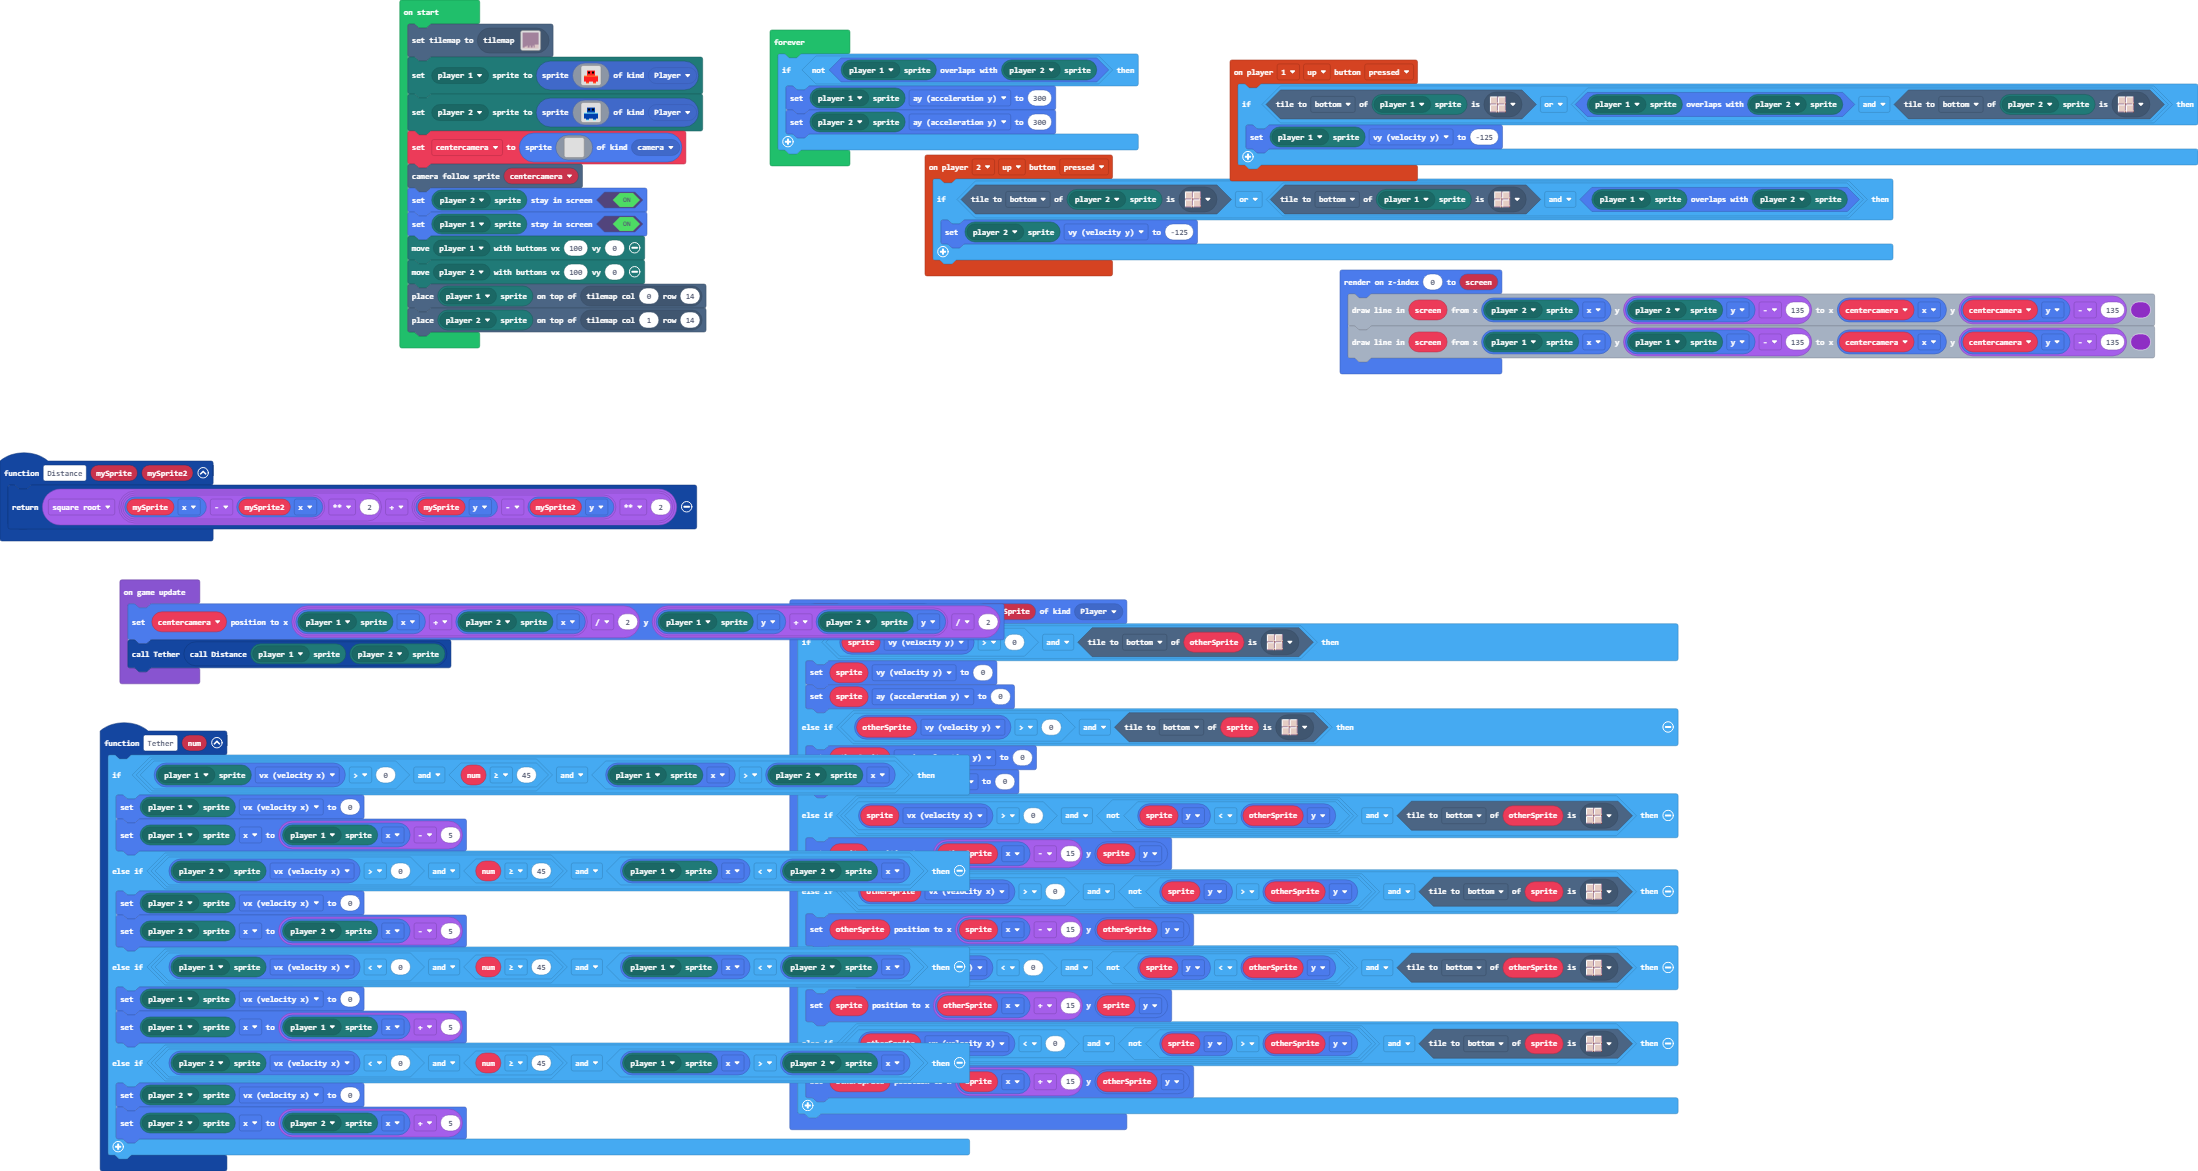
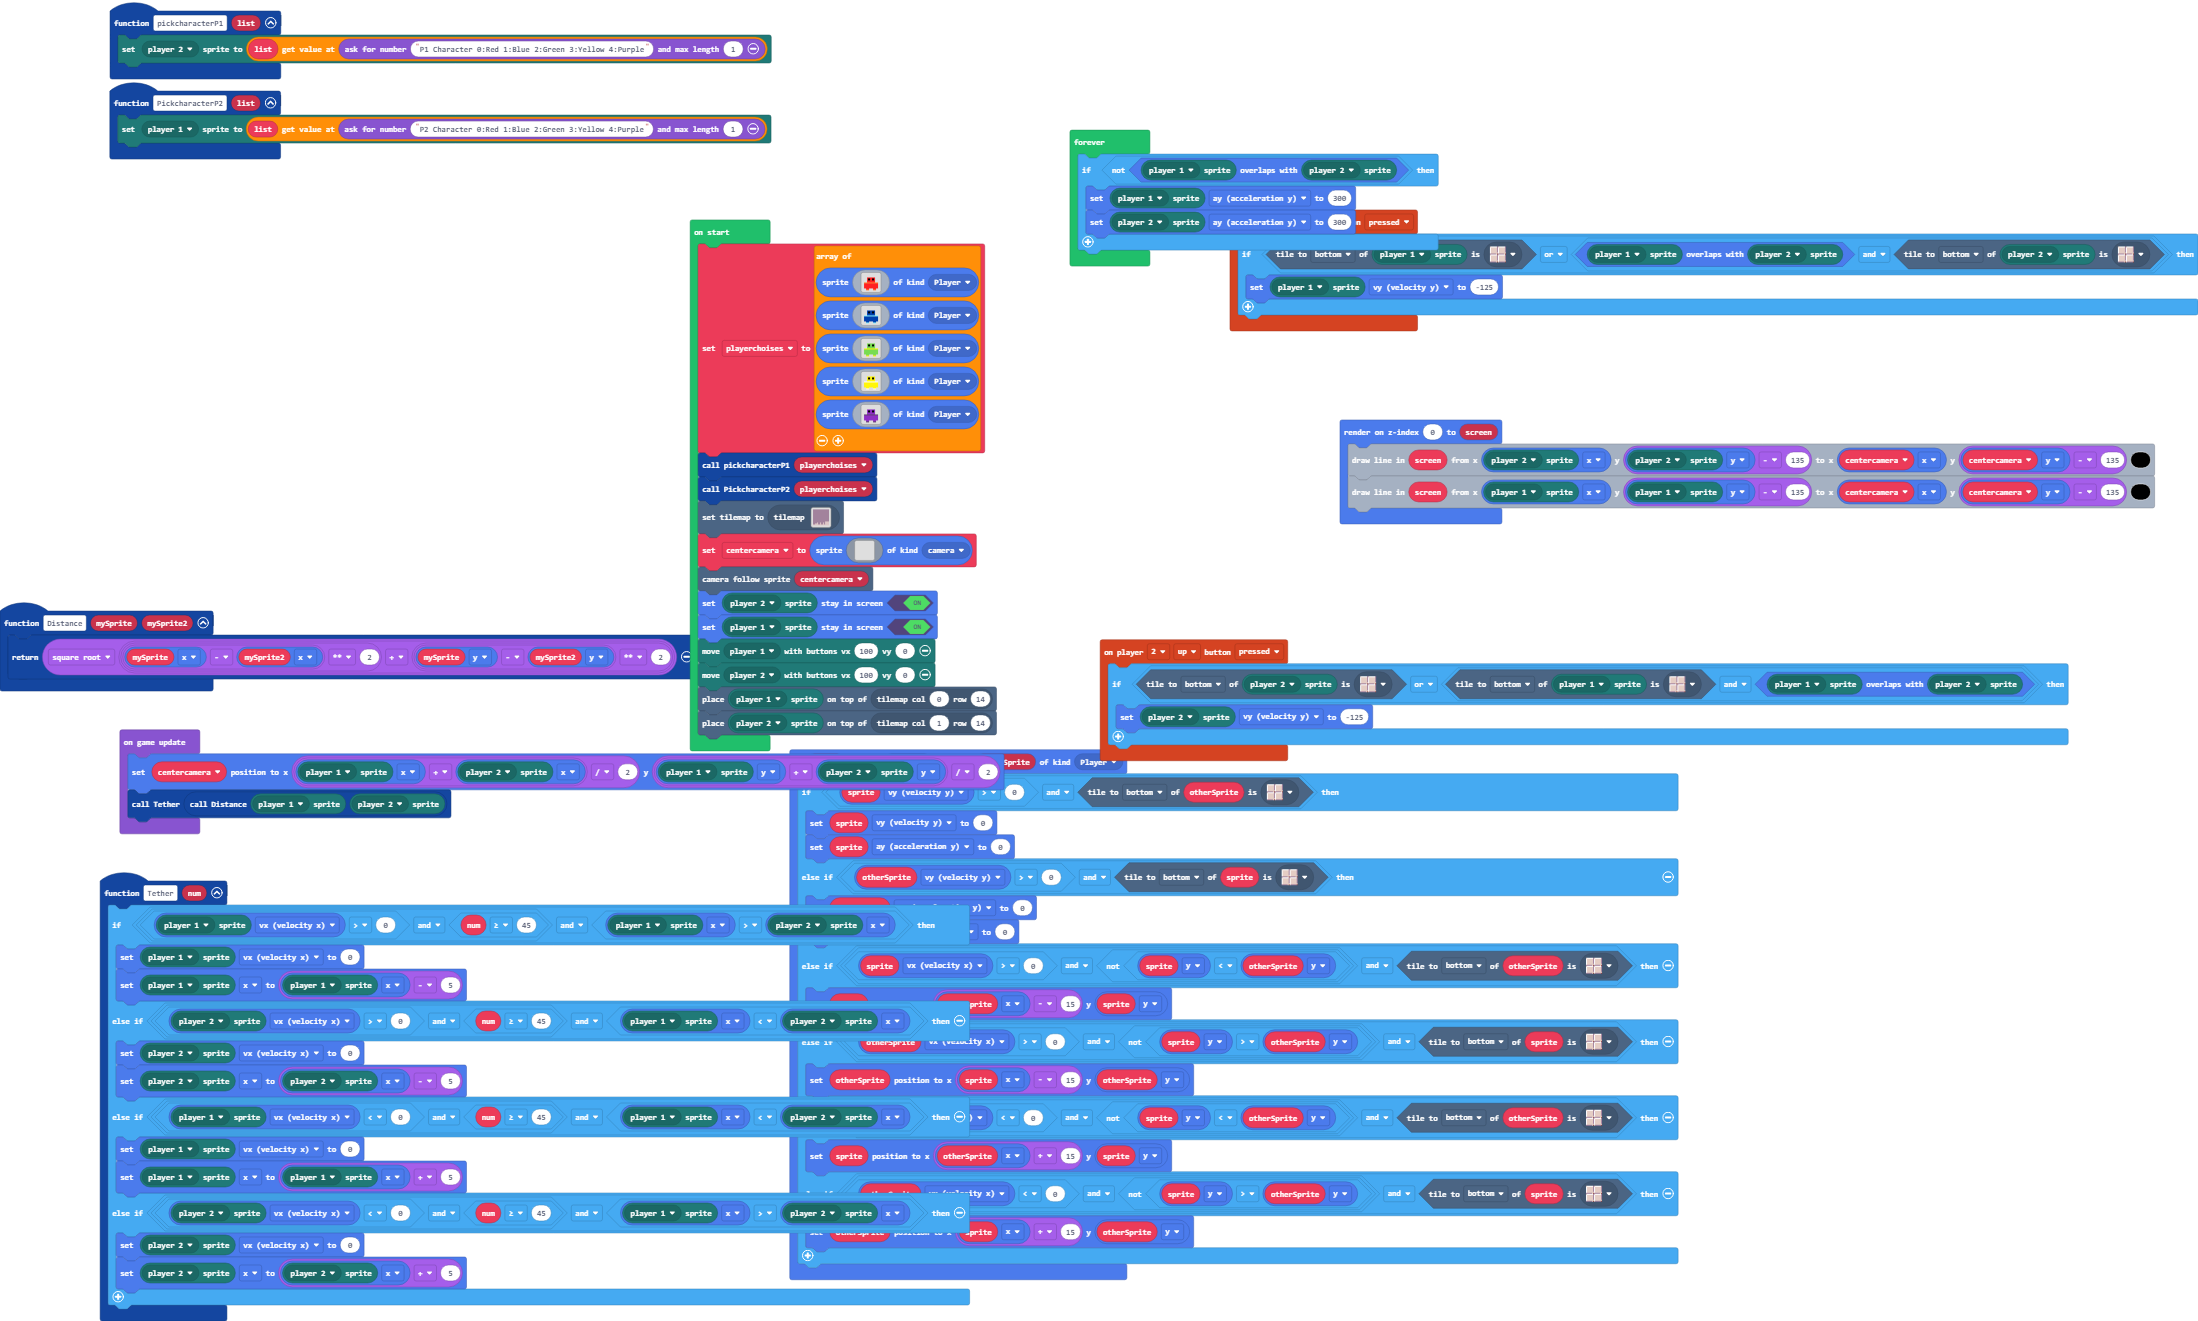
Update main.blocks, main.ts

diff --git a/main.ts b/main.ts
@@ -7,12 +7,15 @@ controller.player1.onButtonEvent(ControllerButton.Up, ControllerButtonEvent.Pres
         mp.getPlayerSprite(mp.playerSelector(mp.PlayerNumber.One)).vy = -125
     }
 })
+function pickcharacterP1 (list: Sprite[]) {
+    mp.setPlayerSprite(mp.playerSelector(mp.PlayerNumber.Two), list[game.askForNumber("P1 Character 0:Red 1:Blue 2:Green 3:Yellow 4:Purple", 1)])
+}
 function Distance (mySprite: Sprite, mySprite2: Sprite) {
     return Math.sqrt((mySprite.x - mySprite2.x) ** 2 + (mySprite.y - mySprite2.y) ** 2)
 }
 spriteutils.createRenderable(0, function (screen2) {
-    screen2.drawLine(mp.getPlayerSprite(mp.playerSelector(mp.PlayerNumber.Two)).x, mp.getPlayerSprite(mp.playerSelector(mp.PlayerNumber.Two)).y - 135, centercamera.x, centercamera.y - 135, 10)
-    screen2.drawLine(mp.getPlayerSprite(mp.playerSelector(mp.PlayerNumber.One)).x, mp.getPlayerSprite(mp.playerSelector(mp.PlayerNumber.One)).y - 135, centercamera.x, centercamera.y - 135, 10)
+    screen2.drawLine(mp.getPlayerSprite(mp.playerSelector(mp.PlayerNumber.Two)).x, mp.getPlayerSprite(mp.playerSelector(mp.PlayerNumber.Two)).y - 135, centercamera.x, centercamera.y - 135, 15)
+    screen2.drawLine(mp.getPlayerSprite(mp.playerSelector(mp.PlayerNumber.One)).x, mp.getPlayerSprite(mp.playerSelector(mp.PlayerNumber.One)).y - 135, centercamera.x, centercamera.y - 135, 15)
 })
 controller.player2.onButtonEvent(ControllerButton.Up, ControllerButtonEvent.Pressed, function () {
     if (mp.getPlayerSprite(mp.playerSelector(mp.PlayerNumber.Two)).tileKindAt(TileDirection.Bottom, sprites.dungeon.floorLight0) || mp.getPlayerSprite(mp.playerSelector(mp.PlayerNumber.One)).tileKindAt(TileDirection.Bottom, sprites.dungeon.floorLight0) && mp.getPlayerSprite(mp.playerSelector(mp.PlayerNumber.One)).overlapsWith(mp.getPlayerSprite(mp.playerSelector(mp.PlayerNumber.Two)))) {
@@ -51,9 +54,12 @@ sprites.onOverlap(SpriteKind.Player, SpriteKind.Player, function (sprite, otherS
         otherSprite.setPosition(sprite.x + 15, otherSprite.y)
     }
 })
+function PickcharacterP2 (list: Sprite[]) {
+    mp.setPlayerSprite(mp.playerSelector(mp.PlayerNumber.One), list[game.askForNumber("P2 Character 0:Red 1:Blue 2:Green 3:Yellow 4:Purple", 1)])
+}
 let centercamera: Sprite = null
-tiles.setCurrentTilemap(tilemap`level2`)
-mp.setPlayerSprite(mp.playerSelector(mp.PlayerNumber.One), sprites.create(img`
+let playerchoises = [
+sprites.create(img`
     . . . . . . . . . . . . . . . . 
     . . . . . . . . . . . . . . . . 
     . . . . . . . . . . . . . . . . 
@@ -70,8 +76,8 @@ mp.setPlayerSprite(mp.playerSelector(mp.PlayerNumber.One), sprites.create(img`
     . 2 2 2 2 2 2 2 2 2 2 2 2 2 2 . 
     . . . 2 2 2 . . . . 2 2 2 . . . 
     . . . 4 4 4 . . . . 4 4 4 . . . 
-    `, SpriteKind.Player))
-mp.setPlayerSprite(mp.playerSelector(mp.PlayerNumber.Two), sprites.create(img`
+    `, SpriteKind.Player),
+sprites.create(img`
     . . . . . . . . . . . . . . . . 
     . . . . . . . . . . . . . . . . 
     . . . . . . . . . . . . . . . . 
@@ -88,7 +94,65 @@ mp.setPlayerSprite(mp.playerSelector(mp.PlayerNumber.Two), sprites.create(img`
     . 8 8 8 8 8 8 8 8 8 8 8 8 8 8 . 
     . . . 8 8 8 . . . . 8 8 8 . . . 
     . . . 9 9 9 . . . . 9 9 9 . . . 
-    `, SpriteKind.Player))
+    `, SpriteKind.Player),
+sprites.create(img`
+    . . . . . . . . . . . . . . . . 
+    . . . . . . . . . . . . . . . . 
+    . . . . . . . . . . . . . . . . 
+    . . . . 7 7 7 7 7 7 7 7 . . . . 
+    . . . . 7 f f 7 7 f f 7 . . . . 
+    . . . . 7 f f 7 7 f f 7 . . . . 
+    . . . . 7 7 7 7 7 7 7 7 . . . . 
+    . . . . 7 7 7 7 7 7 7 7 . . . . 
+    . 5 5 5 5 5 5 5 5 5 5 5 5 5 5 . 
+    . 7 7 7 7 7 7 7 7 7 7 7 7 7 7 . 
+    . 7 7 7 7 7 7 7 7 7 7 7 7 7 7 . 
+    . 7 7 7 7 7 7 7 7 7 7 7 7 7 7 . 
+    . 7 7 7 7 7 7 7 7 7 7 7 7 7 7 . 
+    . 7 7 7 7 7 7 7 7 7 7 7 7 7 7 . 
+    . . . 7 7 7 . . . . 7 7 7 . . . 
+    . . . 5 5 5 . . . . 5 5 5 . . . 
+    `, SpriteKind.Player),
+sprites.create(img`
+    . . . . . . . . . . . . . . . . 
+    . . . . . . . . . . . . . . . . 
+    . . . . . . . . . . . . . . . . 
+    . . . . 5 5 5 5 5 5 5 5 . . . . 
+    . . . . 5 f f 5 5 f f 5 . . . . 
+    . . . . 5 f f 5 5 f f 5 . . . . 
+    . . . . 5 5 5 5 5 5 5 5 . . . . 
+    . . . . 5 5 5 5 5 5 5 5 . . . . 
+    . 1 1 1 1 1 1 1 1 1 1 1 1 1 1 . 
+    . 5 5 5 5 5 5 5 5 5 5 5 5 5 5 . 
+    . 5 5 5 5 5 5 5 5 5 5 5 5 5 5 . 
+    . 5 5 5 5 5 5 5 5 5 5 5 5 5 5 . 
+    . 5 5 5 5 5 5 5 5 5 5 5 5 5 5 . 
+    . 5 5 5 5 5 5 5 5 5 5 5 5 5 5 . 
+    . . . 5 5 5 . . . . 5 5 5 . . . 
+    . . . 1 1 1 . . . . 1 1 1 . . . 
+    `, SpriteKind.Player),
+sprites.create(img`
+    . . . . . . . . . . . . . . . . 
+    . . . . . . . . . . . . . . . . 
+    . . . . . . . . . . . . . . . . 
+    . . . . a a a a a a a a . . . . 
+    . . . . a f f a a f f a . . . . 
+    . . . . a f f a a f f a . . . . 
+    . . . . a a a a a a a a . . . . 
+    . . . . a a a a a a a a . . . . 
+    . c c c c c c c c c c c c c c . 
+    . a a a a a a a a a a a a a a . 
+    . a a a a a a a a a a a a a a . 
+    . a a a a a a a a a a a a a a . 
+    . a a a a a a a a a a a a a a . 
+    . a a a a a a a a a a a a a a . 
+    . . . a a a . . . . a a a . . . 
+    . . . c c c . . . . c c c . . . 
+    `, SpriteKind.Player)
+]
+pickcharacterP1(playerchoises)
+PickcharacterP2(playerchoises)
+tiles.setCurrentTilemap(tilemap`level2`)
 centercamera = sprites.create(img`
     . . . . . . . . . . . . . . . . 
     . . . . . . . . . . . . . . . . 
